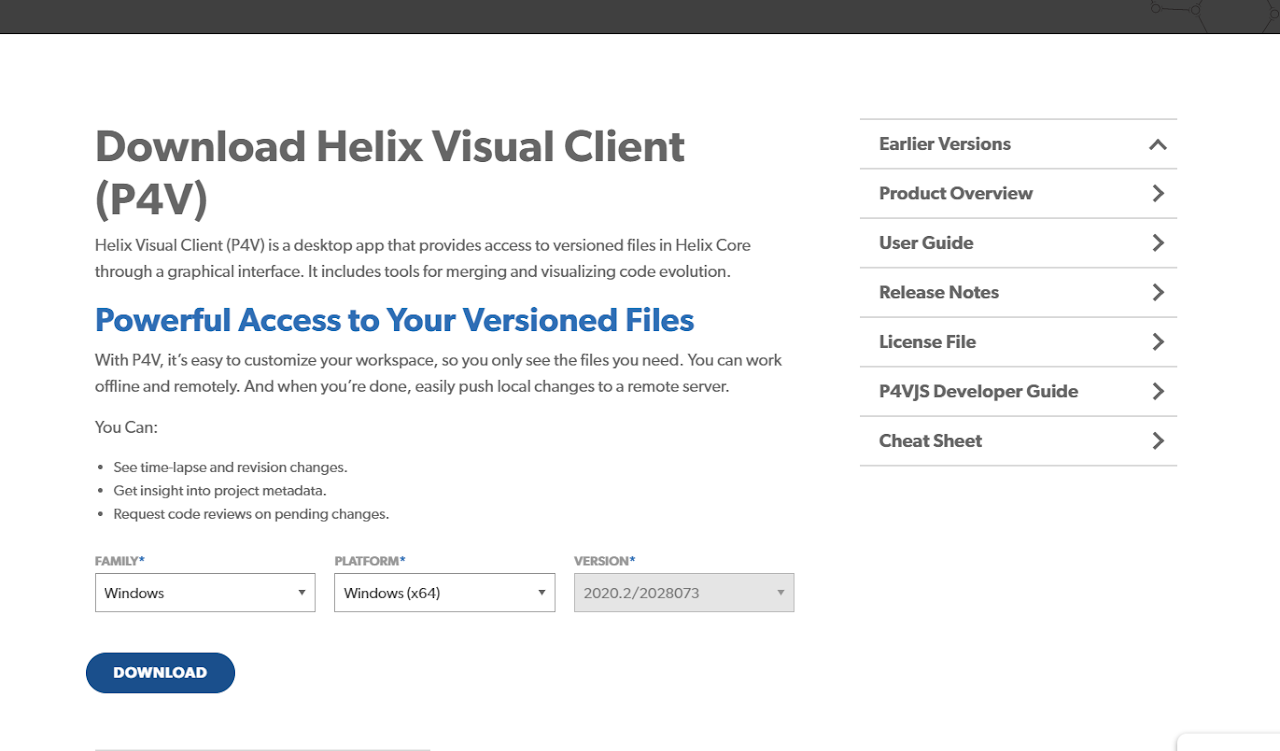
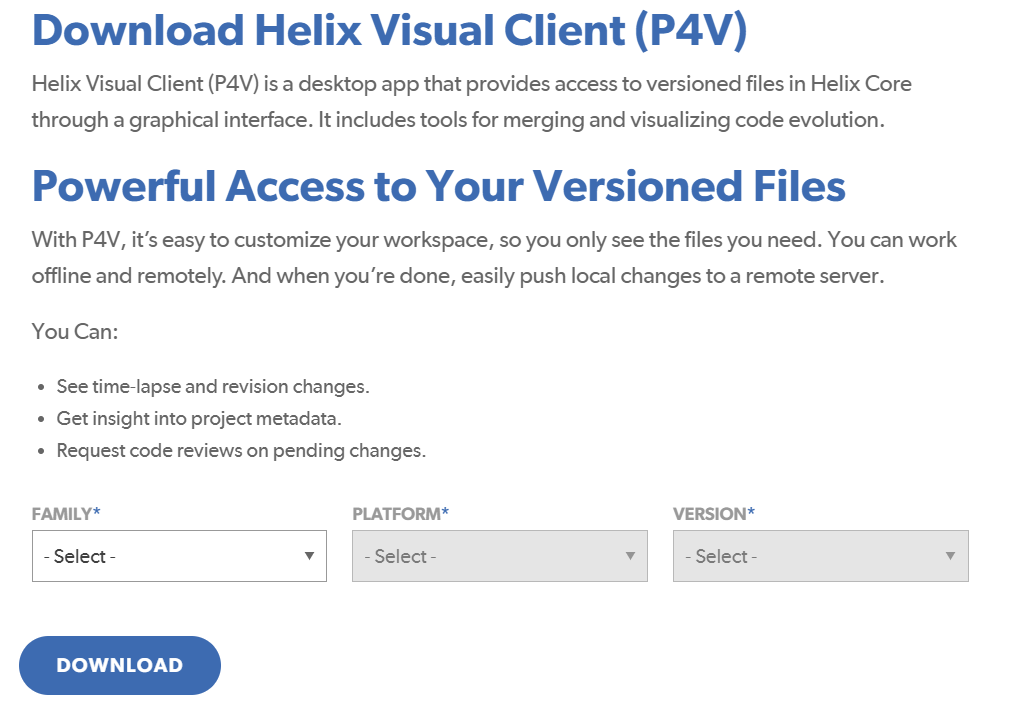
Starting update of Perforce docs

diff --git a/index.html b/index.html
@@ -24,18 +24,20 @@
 		<script>
 			window.$docsify = {
 				name: "<img src='img/xrs/logo-black.png' style='width: 64px;' /><br>XR Studios: Content Integration Portal",
-				repo: "",
+				repo: '',
 				loadSidebar: true,
 				subMaxLevel: 3,
-				homepage: "home.md",
+				homepage: 'home.md',
 			};
 		</script>
 		<!-- Docsify v4 -->
 		<script src="//cdn.jsdelivr.net/npm/docsify@4"></script>
 		<script src="//cdn.jsdelivr.net/npm/prismjs@1/components/prism-c.min.js"></script>
 		<script src="//cdn.jsdelivr.net/npm/prismjs@1/components/prism-cpp.min.js"></script>
+		<script src="//cdn.jsdelivr.net/npm/docsify/lib/plugins/zoom-image.min.js"></script>
+		<!-- <script src="https://unpkg.com/docsify-plugin-flexible-alerts"></script> -->
 		<script>
-			history.scrollRestoration = "manual";
+			history.scrollRestoration = 'manual';
 		</script>
 		<script>
 			window.onbeforeunload = function () {

diff --git a/css/style.css b/css/style.css
@@ -29,5 +29,8 @@ h6 {
 
 :root {
 	--content-max-width: 75em;
-	--theme-color: orange;
+	--theme-color: #fd371c;
+	--link-color: #fd371c;
+	--strong-color: #fd371c;
+	/* --link-color--hover: ??? */
 }

diff --git a/docs/content/perforce.md b/docs/content/perforce.md
@@ -2,47 +2,54 @@
 
 ![logo](../../img/p4v/flowchart.png)
 
-XR Studios uses Perforce for content delivery and change management.
-Perforce provides a single solution for filesharing, backups, maintenance, and collaboration with XR Studios.  
-It replaces the need to manually send multiple files back and forth via email or link sharing, and acts as a method for both XR Studios and external partners to work on project files simultaneously.
+XR Studios uses **Perforce** for content delivery and version control. Perforce provides a single solution for sharing large files, backups, maintenance, and collaboration with XR Studios.  
+It replaces the need to manually send many large, complex files back and forth via email or link sharing, and acts as a method for both XR Studios and external partners to work on project files simultaneously. Additionally, Perforce allows for "versioning" of files and file history (similar to tools like Git), allowing for us to rollback changes if necessary.
 
-A typical workflow:
+The typical workflow for Perforce is as follows:
 
-1. Install Perforce and connect to XR Studios using the supplied credentials.
+1. Install Perforce and connect to your project depot on the XR Studios Perforce server using the supplied credentials.
 2. Download the template scene files via Perforce.
 3. Create content and periodically submit updates via Perforce.
 
 The steps for getting started are outlined below.
 
-## 1: Download and Install Perforce P4V
+## 1: Download and Install Helix Visual Client (P4V)
 
-[![Foo](../../img/p4v/step1.png ":size=50%")](https://xr-studios.github.io/img/p4v/step1.png)
+![Screenshot of the P4V download page](../../img/p4v/step1.png ':size=50%')
 
-Download the Perforce Visual Client: https://www.perforce.com/downloads/helix-visual-client-p4v
+From Perforce's website, download [Helix Visual Client (P4V)](https://www.perforce.com/downloads/helix-visual-client-p4v), then follow the default instructions provided by the installer.
 
-Follow the default installation steps provided by the installer.
+?> If you are comfortable using a terminal, you can also use the [command-line interface (P4)](https://www.perforce.com/downloads/helix-command-line-client-p4) to do your work. However, P4V tends to be a bit easier to work with, so we recommend using that.
 
-## 2: Launch and Create a Workspace
+## 2: Connect to the Depot
 
-### Open Connection
+![Screenshot of the P4V login window](../../img/p4v/step2.png ':size=50%')
 
-1. _Launch P4V:_ First we must connect to the XR Studios perforce server, and download the template files to your workspace. (Contact us if you do not have these credentials)
-2. _Server:_ Enter the server name provided by XR Studios. (There are multiple perforce servers)
-3. _User:_ Your supplied username provided by XR Studios.
+Once P4V has been installed, launch it and you will be greeted by the above window. From here, you will need to input the following information:
 
-[![Foo](../../img/p4v/p4v_connection.png)](https://xr-studios.github.io/img/p4v/p4v_connection.png)
+-   **Server:** This should always be _ssl:perforce.xrstudios.live:1666_
+-   **User:** This should be the username provided to you by XR Studios, typically along the lines of _{project-name}-collab-user-{number}_ (for example, _cheese-collab-user-1_).
+-   **Workspace:** Leave this blank when initially logging in; once you create a workspace you can optionally populate this when logging in to switch to a given workspace immediately.
 
-### Create a New Workspace
+Once this done, hit "Ok". You may get a message about trusting the connection; click "Trust this connection". From here, you will be asked to input the password given to you by XR Studios. Once entered, you will be connected to the server, and should see something like this:
+
+![Screenshot of the P4V main screen](../../img/p4v/step3.png ':size=50%')
+
+...with a view of your depots on the left (which should only be one, named after the project name) and your files/pending changes on the right. If you open up the project depot using the arrows, you should see a **dev** folder containing our Unreal Engine 5.1 Template.
+
+If the username or password do not work, or you don't see the template anywhere, reach out to *cts@xrstudios.live* and will help you get things figured out!
+
+## 3: Create a New Workspace
 
 4. _Workspace:_ This is a dedicated location on your local machine which will contain all the project files whilst developing content. After entering your server address and user, click New Workspace.
-5. _Workspace Name:_ The XRS preferred Workspace name structure is _username\_computername\_server\_projectname_ . If this heavily conflicts with the way you name your projects, you may disregard. Please just choose something that makes sense.
+5. _Workspace Name:_ The XRS preferred Workspace name structure is _username_computername_server_projectname_ . If this heavily conflicts with the way you name your projects, you may disregard. Please just choose something that makes sense.
 6. _Workspace Root:_ Is the filepath where you will be working on local files before submitting them. The example below shows a local Workspace mapped to the D drive, but you can put your Workspace anywhere you'd like. Ensure you choose a directory with enough storage to facilitate the project.
 7. _Stream:_ This is a path to referencing files in our server network. Click Browse and select the `MAIN` stream. If you are downloading just the Template from the template server, select the `TEMPLATE` stream.
 8. Leave the rest of the settings as default, and click OK.
 
-[![Foo](../../img/p4v/p4v_workspace.PNG)](https://xr-studios.github.io/img/p4v/p4v_workspace.PNG)
+![Foo](../../img/p4v/p4v_workspace.PNG)](https://xr-studios.github.io/img/p4v/p4v_workspace.PNG)
 
-## 3: Syncing the Template Files to your Workspace
+## 4: Syncing the Template Files to your Workspace
 
 [![Foo](../../img/p4v/step3.png)](https://xr-studios.github.io/img/p4v/step3.png)
 
@@ -61,8 +68,8 @@ Either navigate to it's directory, or find them directly in Perforce in the work
 
 Depending on the type of project file supplied, please read through the relevant information about the working with the template scene files:
 
-- [Unreal Engine](docs/content/unreal.md)
-- [Notch](docs/content/notch)
+-   [Unreal Engine](docs/content/unreal.md)
+-   [Notch](docs/content/notch)
 
 ## 5: Connect Unreal to Source Control
 
@@ -73,14 +80,16 @@ With P4V open and connected to the XR Studios perforce server, launch the Unreal
 Select the source control option in Unreal and click _Connect to source control_. This option is located in different places depending on whether you are working in UE4 or UE5:
 
 ### UE4 Location
+
 Top left next to the "Save Current" icon
 
 [![Foo](../../img/p4v/UE4_sourcecontrol.png)](https://xr-studios.github.io/img/p4v/ue4_sourcecontrol.png)
 
 ### UE5 Location
+
 Bottom right corner
 
-[![Foo](../../img/p4v/UE5_sourcecontrol.png ":size=80%")](https://xr-studios.github.io/img/p4v/ue5_sourcecontrol.png)
+[![Foo](../../img/p4v/UE5_sourcecontrol.png ':size=80%')](https://xr-studios.github.io/img/p4v/ue5_sourcecontrol.png)
 
 In the dialog box that appears, select Perforce as your provider, then sign in using the same credentials that you are using for P4V. After filling in server and user name, you should be able to select your current workspace from the available workspaces tab (P4V must be running and connected to the server).
 
@@ -94,7 +103,7 @@ Adding a new asset while connected to source control will automatically mark the
 
 > While connected to source control, you gain additional options when right clicking assets in the content browser. Items may be Refreshed, Synced, Checked Out, Submitted, and Reverted, among other options.
 
-!> If an asset has a yellow question mark or exclamation point, it is out of sync with the Depot; you may need to refresh and sync the asset.
+?> If an asset has a yellow question mark or exclamation point, it is out of sync with the Depot; you may need to refresh and sync the asset.
 
 ## 6: Submit your Content
 
@@ -113,5 +122,4 @@ Press Submit.
 
 ## Further Reading
 
-Perforce recently launched its own learning platform called [Perforce U](https://perforceu.perforce.com/vp/merging-collaborating-unreal-engine
-). You can enroll in a free, self-paced course if you would like a more in-depth tutorial.
+Perforce recently launched its own learning platform called [Perforce U](https://perforceu.perforce.com/vp/merging-collaborating-unreal-engine). You can enroll in a free, self-paced course if you would like a more in-depth tutorial.
